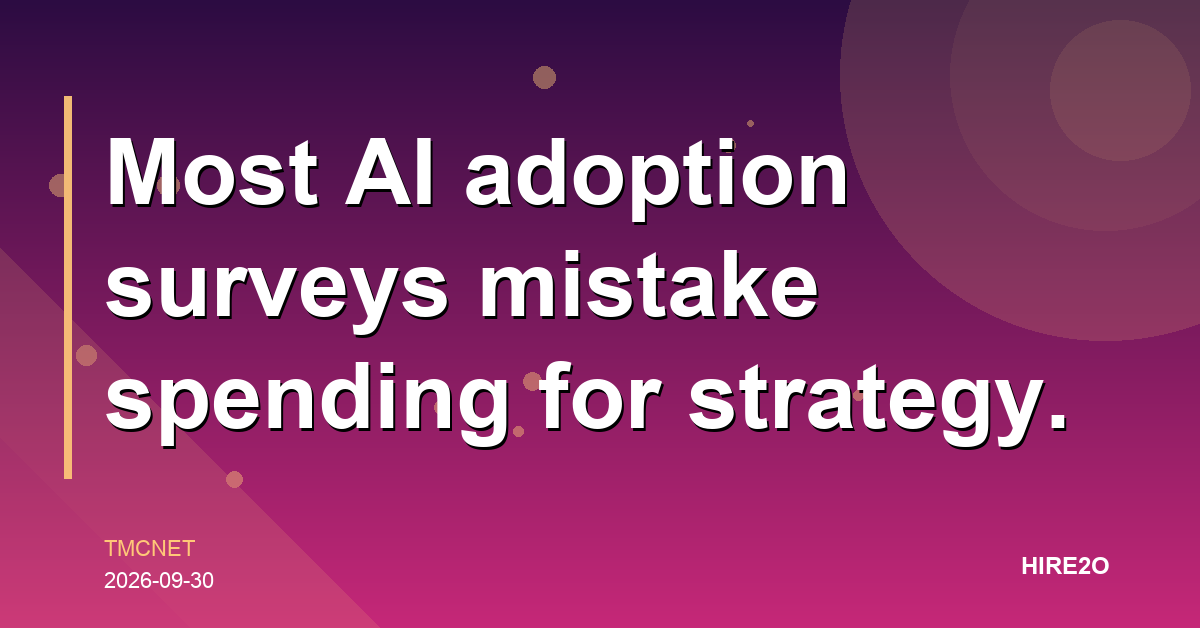
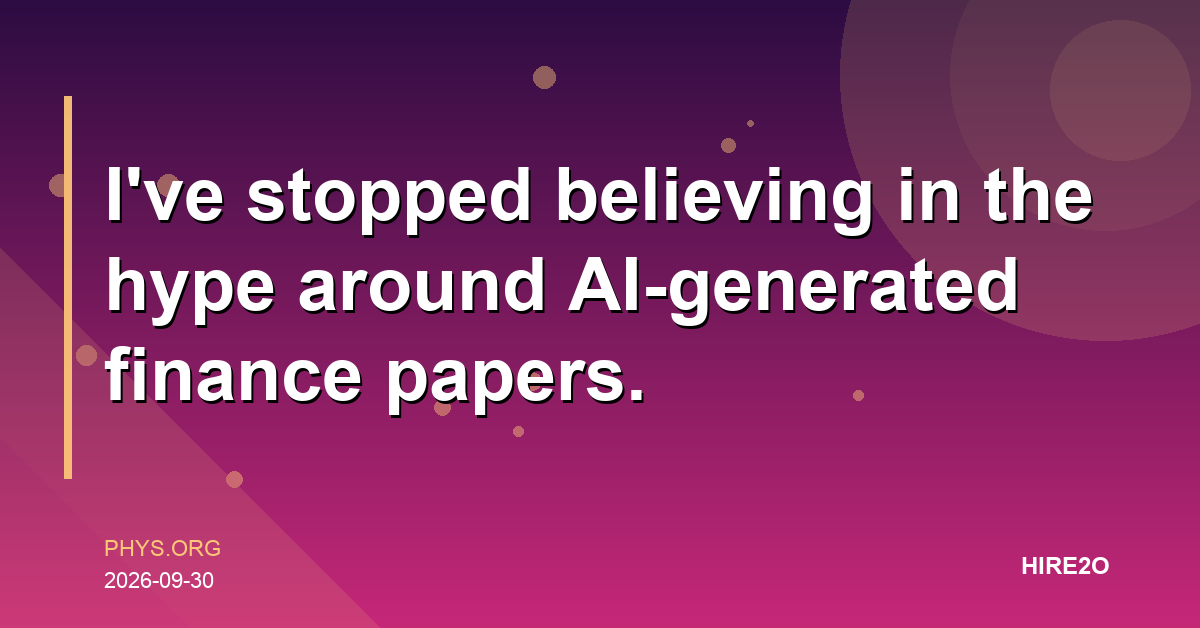
ben frank and tie

diff --git a/events.py b/events.py
@@ -63,8 +63,23 @@ INTEREST_KEYWORDS = [
     "startup", "founder", "entrepreneur", "venture", "vc", "pitch", "demo day",
     "fintech", "finance", "payments", "blockchain",
     "tech", "developer", "engineering", "software", "data", "cloud", "devops",
-    "hackathon", "workshop", "meetup", "networking", "python", "kubernetes",
+    "hackathon", "meetup", "networking", "python", "kubernetes",
     "aws", "azure", "salesforce", "databricks", "open source", "career", "hiring",
+    "product", "saas", "b2b", "investor", "accelerator", "incubator",
+    "demo night", "demo day", "build night", "pitch night", "lightning talk",
+]
+
+# Vetoes the keyword match. Luma's city pages carry a lot of craft, wellness
+# and social events, and "workshop" or "networking" alone let them through.
+EXCLUDE_KEYWORDS = [
+    "yoga", "sound bath", "meditation", "breathwork", "pilates", "run club",
+    "knit", "knitting", "crochet", "yarn", "fiber arts", "braiding", "quilt",
+    "watercolor", "painting", "pastel", "drawing", "collage", "journal",
+    "ceramics", "pottery", "flower", "floral", "candle", "craft",
+    "dating", "singles", "speed dating", "platonic love", "friend dating",
+    "brunch", "happy hour trivia", "trivia night", "karaoke", "open mic",
+    "dance", "ballet", "house jam", "concert", "gaming night", "book club",
+    "tarot", "astrology", "reiki", "wellness circle", "halloween",
 ]
 
 REFRESH_HOUR = 6          # 6am
@@ -271,18 +286,23 @@ def _classify(location):
     """Decide which box a discovered event belongs in."""
     loc = (location or "").lower()
     if any(w in loc for w in ("philadelphia", "philly", "king of prussia",
-                              "conshohocken", "malvern", "wayne, pa", "chester")):
+                              "conshohocken", "malvern", "wayne, pa", "chester",
+                              "downingtown", "exton", "radnor", "bala cynwyd",
+                              "navy yard", "university city", "sep")):
         return "philadelphia"
     if any(w in loc for w in ("new york", "nyc", "brooklyn", "manhattan",
                               "new jersey", ", nj", "newark", "jersey city",
                               "princeton", "delaware", ", de", "wilmington")):
         return "tristate"
+    # Pittsburgh, Bethlehem, Erie and the rest of PA are a drive away, not local.
     return "usa"
 
 
 def _interesting(text):
     """Whole-word match. Substring matching turns 'Braiding' into an AI event."""
     low = (text or "").lower()
+    if any(re.search(r"\b" + re.escape(k) + r"\b", low) for k in EXCLUDE_KEYWORDS):
+        return False
     return any(re.search(r"\b" + re.escape(k) + r"\b", low) for k in INTEREST_KEYWORDS)
 
 
@@ -381,12 +401,13 @@ def fetch_luma(city_slug, city_label):
     return out
 
 
-def fetch_generic(url, source_name, city_label):
-    """Try any events page that publishes JSON-LD. Used for Eventbrite/Meetup.
+def fetch_generic(url, source_name, city_label, organizer="", trusted=False,
+                  meant_for=""):
+    """Any events page that publishes JSON-LD (The Events Calendar, schema.org).
 
-    Both of those actively block automated requests, so this usually returns
-    nothing. It is kept because it costs nothing and occasionally works from a
-    home IP, and because the same function serves any other site you add.
+    trusted=True skips the keyword filter. Use it for organisations whose whole
+    programme is relevant — everything TiE or Ben Franklin runs is a startup or
+    tech event, so filtering them by keyword would only throw away good rows.
     """
     page = requests.get(url, headers={"User-Agent": UA, "Accept-Language": "en-US"},
                         timeout=25)
@@ -395,26 +416,58 @@ def fetch_generic(url, source_name, city_label):
     for blob in _json_blobs(page.text):
         _walk_json(blob, found)
     out = []
+    seen = set()
     for node in found:
         name = html.unescape(str(node.get("name") or "")).strip()
-        if not name:
+        if not name or name.lower() in seen:
             continue
         start = str(node.get("startDate") or node.get("start_date") or "")
         iso = start[:10] if re.match(r"\d{4}-\d{2}-\d{2}", start) else ""
         location = _location_of(node) or city_label
-        if not _interesting(f"{name} {location}"):
+        if not trusted and not _interesting(f"{name} {location}"):
             continue
+        seen.add(name.lower())
         link = _event_url(node, base=re.match(r"https?://[^/]+", url).group(0))
         out.append({
-            "date": iso, "sort_date": iso, "company": "", "event": name,
-            "location": location, "meant_for": "",
+            "date": iso, "sort_date": iso, "company": organizer, "event": name,
+            "location": location, "meant_for": meant_for,
             "register_url": link or url,
             "source": source_name,
         })
+    print(f"[events] {source_name}: {len(found)} objects, {len(out)} kept")
     return out
 
 
+def fetch_tie_philadelphia():
+    """TiE Philadelphia.
+
+    Their calendar runs on Zoho Backstage (an Ember app), so the listing is
+    drawn in the browser and the HTML we receive is empty. We try the chapter
+    site anyway in case they post events on a normal page, and the pinned
+    bookmark row below guarantees a one-click route to the calendar either way.
+    """
+    results = []
+    for url in ("https://philadelphia.tie.org/calendar/",
+                "https://philadelphia.tie.org/"):
+        try:
+            results += fetch_generic(url, "tie", "Philadelphia, PA",
+                                     organizer="TiE Philadelphia", trusted=True,
+                                     meant_for="Startup / entrepreneurship")
+        except Exception as exc:
+            print(f"[events] tie {url}: {str(exc)[:60]}")
+    return results
+
+
 SOURCES = [
+    ("TiE Philadelphia",  fetch_tie_philadelphia),
+    ("Ben Franklin (PA)", lambda: fetch_generic(
+        "https://benfranklin.org/events/", "benfranklin", "Pennsylvania",
+        organizer="Ben Franklin Technology Partners", trusted=True,
+        meant_for="Startup / entrepreneurship")),
+    ("Ben Franklin SEP",  lambda: fetch_generic(
+        "https://www.sep.benfranklin.org/resources/events/", "benfranklin",
+        "Philadelphia, PA", organizer="Ben Franklin Technology Partners, SEP",
+        trusted=True, meant_for="Startup / entrepreneurship")),
     ("Luma Philadelphia", lambda: fetch_luma("philadelphia", "Philadelphia, PA")),
     ("Luma New York",     lambda: fetch_luma("nyc", "New York, NY")),
     ("Eventbrite Philly", lambda: fetch_generic(
@@ -423,6 +476,23 @@ SOURCES = [
     ("Meetup Philly",     lambda: fetch_generic(
         "https://www.meetup.com/find/?keywords=technology&location=us--pa--Philadelphia",
         "meetup", "Philadelphia, PA")),
+]
+
+# Permanent rows linking to calendars we cannot scrape reliably. Recreated on
+# every refresh if you delete them, so the link is always one click away.
+BOOKMARKS = [
+    {"category": "philadelphia", "company": "TiE Philadelphia",
+     "event": "TiE Philadelphia — full event calendar",
+     "location": "Philadelphia, PA", "meant_for": "Startup / entrepreneurship",
+     "register_url": "https://philadelphia.tie.org/calendar/"},
+    {"category": "usa", "company": "TiE Global",
+     "event": "TiE Global — all chapters",
+     "location": "Nationwide", "meant_for": "Startup / entrepreneurship",
+     "register_url": "https://events.tie.org/events"},
+    {"category": "philadelphia", "company": "Ben Franklin Technology Partners, SEP",
+     "event": "Ben Franklin SEP — ecosystem events",
+     "location": "Philadelphia, PA", "meant_for": "Startup / entrepreneurship",
+     "register_url": "https://www.sep.benfranklin.org/resources/events/"},
 ]
 
 
@@ -452,13 +522,27 @@ def refresh(log=print):
         existing = all_events()
         known = {_key(r) for r in existing}
         added = 0
+
+        # Standing links first, so they exist even if every source fails.
+        for mark in BOOKMARKS:
+            row = dict(mark, date="Ongoing — check calendar", sort_date="",
+                       source="bookmark")
+            if _key(row) in known:
+                continue
+            known.add(_key(row))
+            existing.append(dict(row, event_id=uuid.uuid4().hex[:8],
+                                 interested=False, notes=""))
+            added += 1
+
         for item in discovered:
             if _key(item) in known:
                 continue
             known.add(_key(item))
+            # A named organiser is a better classifier than a vague venue string.
+            category = _classify(f"{item['location']} {item.get('company', '')}")
             existing.append({
                 "event_id": uuid.uuid4().hex[:8],
-                "category": _classify(item["location"]),
+                "category": category,
                 "date": item["date"], "sort_date": item["sort_date"],
                 "company": item["company"], "event": item["event"],
                 "location": item["location"], "meant_for": item["meant_for"],
